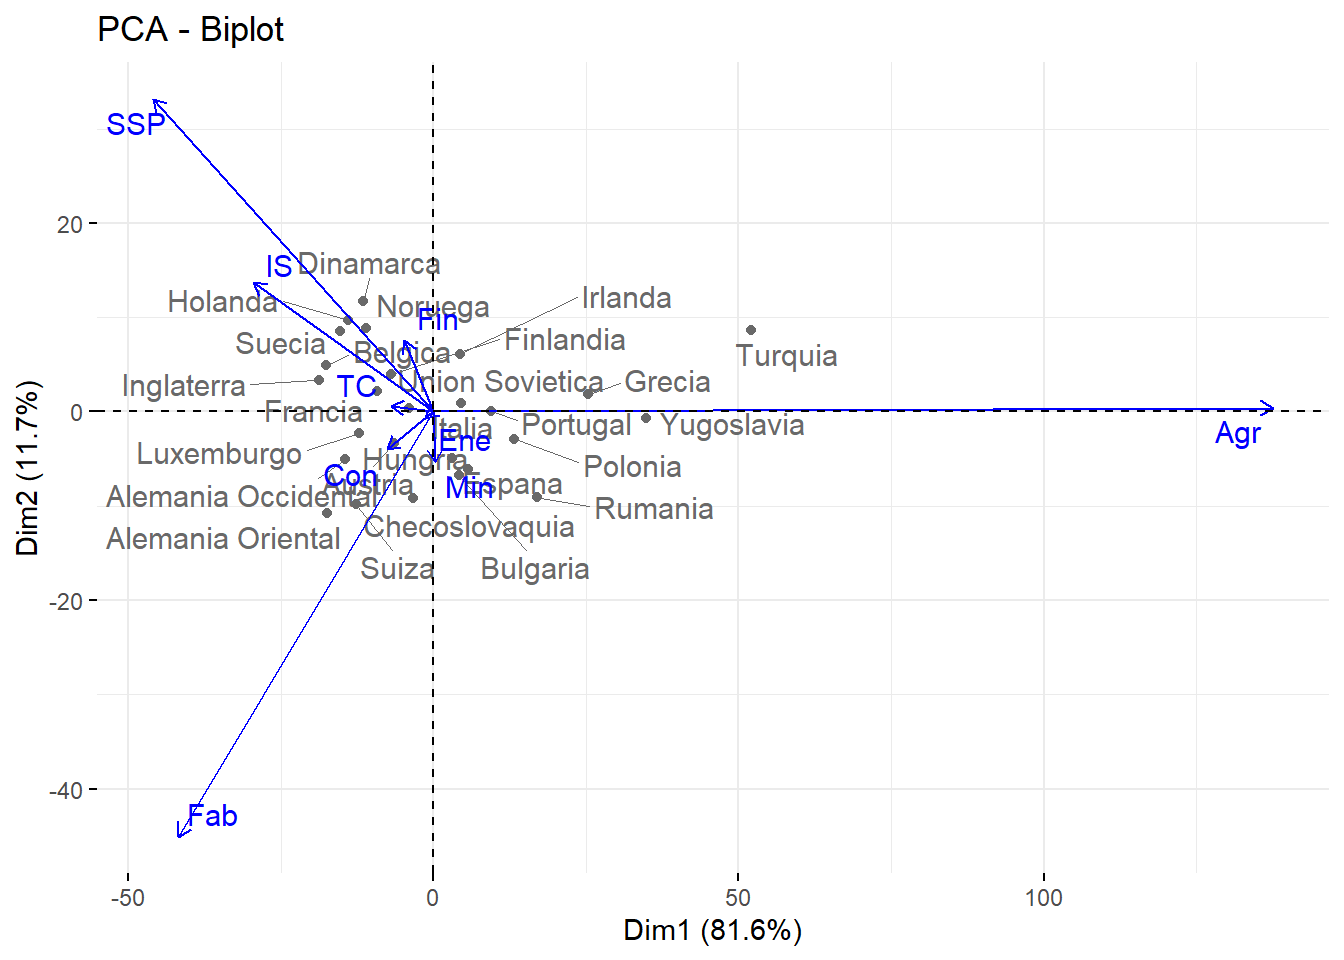
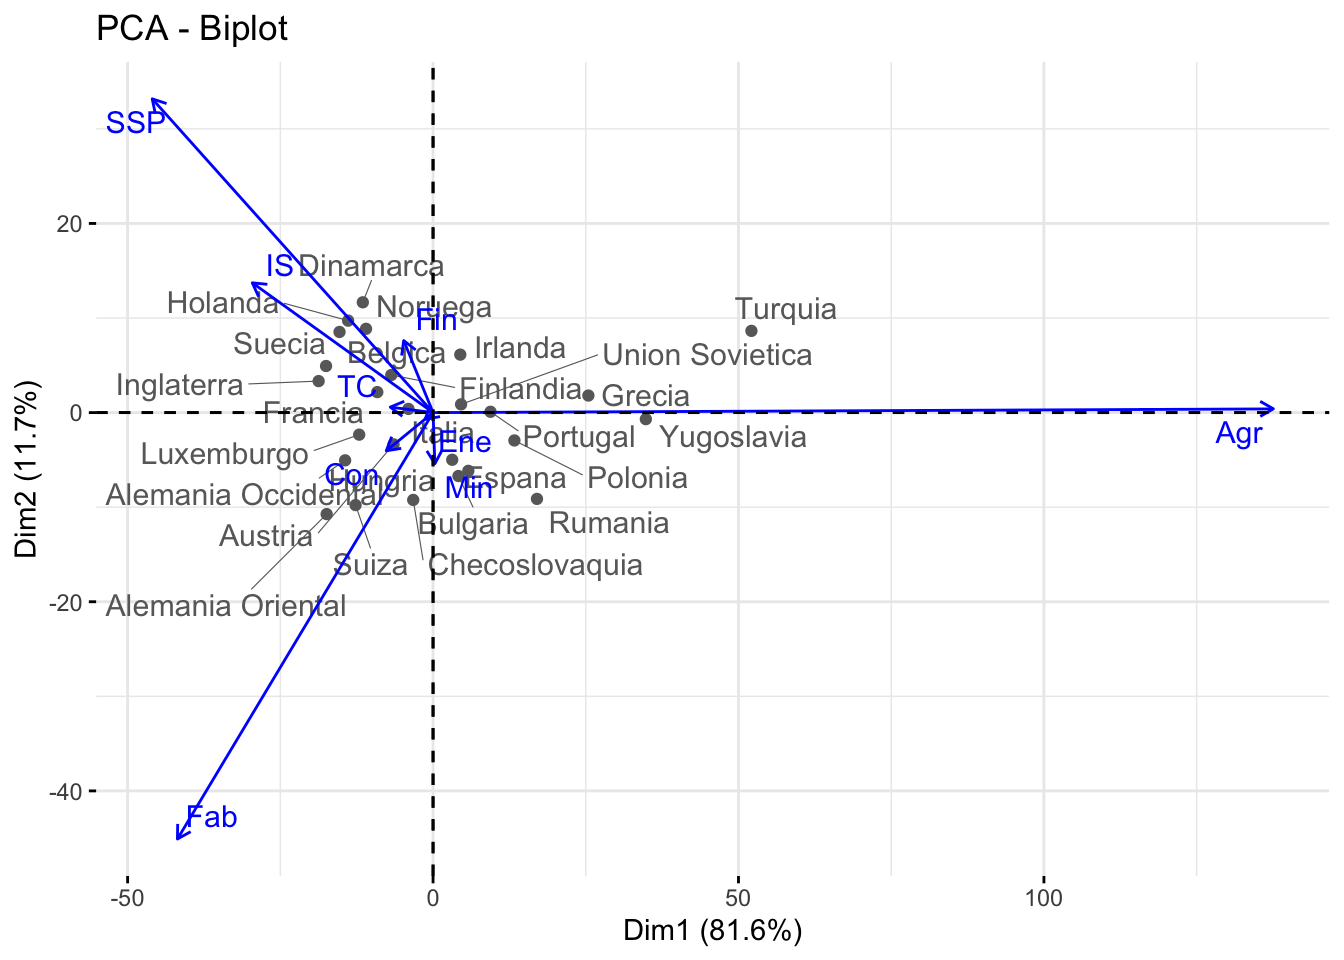
Añado el ACP sin outliers

diff --git a/Practica-PCA.html b/Practica-PCA.html
@@ -2,7 +2,7 @@
 <html xmlns="http://www.w3.org/1999/xhtml" lang="en" xml:lang="en"><head>
 
 <meta charset="utf-8">
-<meta name="generator" content="quarto-1.3.433">
+<meta name="generator" content="quarto-1.3.353">
 
 <meta name="viewport" content="width=device-width, initial-scale=1.0, user-scalable=yes">
 
@@ -94,9 +94,10 @@ pre > code.sourceCode > span > a:first-child::before { text-decoration: underlin
 
 </header>
 
+<p>Link al repositorio: <a href="https://github.com/carlamartineztorres/Practica-PCA.git">Repositorio Github</a></p>
 <section id="enunciado" class="level2">
 <h2 class="anchored" data-anchor-id="enunciado">Enunciado</h2>
-<p>Considera los datos <code>europa.dat</code> que están disponibles en Aula Digital. Los datos corresponden a los porcentajes de población empleados en diferentes actividades económicas en Europa para el año 1979. Las variables consideradas son: - Agricultura - Minas - Fábricas - Suministro Eléctrico - Construcción - Industrias de Servicio - Finanzas - Servicios Sociales y Personales - Transporte y Comunicaciones.</p>
+<p>Considera los datos <code>europa.dat</code> que están disponibles en Aula Digital. Los datos corresponden a los porcentajes de población empleados en diferentes actividades económicas en Europa para el año 1979. Las variables consideradas son: * Agricultura * Minas * Fábricas * Suministro Eléctrico * Construcción * Industrias de Servicio * Finanzas * Servicios Sociales y Personales * Transporte y Comunicaciones.</p>
 <p>Utiliza el método de componentes principales para reducir el número de variables, y tratar de determinar grupos de países con comportamientos semejantes en la distribución de su fuerza de trabajo. En este caso, usa la matriz de covarianza para el cálculo de las componentes principales, ya que todos los datos están medidos en la misma escala (porcentaje de la población) y por las caractersticas de los datos, no parece una buena idea considerarlos todos de igual manera.</p>
 </section>
 <section id="solución" class="level2">
@@ -117,7 +118,7 @@ $ SSP &lt;dbl&gt; 26.6, 32.2, 22.6, 22.3, 20.8, 20.1, 19.2, 28.5, 28.3, 16.8, 24
 $ TC  &lt;dbl&gt; 7.2, 7.1, 5.7, 6.1, 6.1, 5.7, 6.2, 6.8, 6.4, 7.0, 7.6, 6.7, 9.4, 5…</code></pre>
 </div>
 </div>
-<p>Ahora, como vamos a utilizar la matriz de varianzas/covarianzas para el análisis de componentes, vamos a visualizar esta matriz:</p>
+<p>Ahora, como vamos a utilizar la matriz de varianzas/covarianzas para el análisis de componentes, vamos a visualizar dicha matriz:</p>
 <div class="cell">
 <div class="cell-output cell-output-stdout">
 <pre><code>            Agr         Min        Fab         Ene          Con          IS
@@ -142,7 +143,7 @@ SSP  2.0632  46.6426462   5.3964923
 TC  -0.9604   5.3964923   1.9361846</code></pre>
 </div>
 </div>
-<p>Empezamos ahora con el PCA. Utilizamos la función <code>princomp()</code> con el parámetro <code>cor</code> igualado a FALSE. Como los datos están tomados en las mismas unidades, no es necesario reescalarlas. El resultado que obtenemos es el siguiente:</p>
+<p>Empezamos ahora con el PCA. Utilizamos la función <code>princomp()</code> con el parámetro <code>cor</code> igualado a FALSE. Como los datos están tomados en las mismas unidades, no es necesario reescalarlos. El resultado que obtenemos es el siguiente:</p>
 <div class="cell">
 <div class="cell-output cell-output-stdout">
 <pre><code>Call:
@@ -172,7 +173,7 @@ Dim.8 6.242948e-02      0.017454172                    99.99949
 Dim.9 1.838443e-03      0.000513996                   100.00000</code></pre>
 </div>
 </div>
-<p>Si nos fijamos en la última columna de la tabla anterior, la primera componente principal explica el 81.57% de los datos, mientras que si consideramos dos componentes, explicaríamos un 93.3% de los datos. Cabe mencionar que añadir una componente más no nos proporciona información relevante en cuanto a representación de las variables.</p>
+<p>Si nos fijamos en la última columna de la tabla anterior, la primera componente principal explica el 81.57% de los datos, mientras que si consideramos dos componentes, explicaríamos un 93.3% de los datos. Cabe mencionar que añadir una componente más no nos proporciona información relevante en cuanto a la representación de las variables.</p>
 <p>Esto lo visualizamos mejor en el siguiente gráfico:</p>
 <div class="cell">
 <div class="cell-output-display">
@@ -188,7 +189,7 @@ Dim.9 1.838443e-03      0.000513996                   100.00000</code></pre>
 </div>
 <p>Vamos a explicarlo detalladamente:</p>
 <ul>
-<li><p>La variable “Agricultura” esta aislada del resto, lo que nos lleva a concluir que no está correlacionada con ellas.</p></li>
+<li><p>La variable “Agricultura” esta aislada del resto, lo que nos lleva a concluir que no está correlacionada con el resto.</p></li>
 <li><p>El color de cada variable indica cuan bien representadas están; vemos que la variable que mejor representada está es “Agricultura”, seguido de “Fábrica” y “SSPP” (Servicios Sociales y Personales). El color del resto de las variables nos indica que no quedan bien representadas con estas dos componentes.</p></li>
 <li><p>La longitud de las flechas nos indica que no todas las varibales tienen influencia en las componentes princpales. En efecto, “Min”, “Con”, “TC”, “Ene” y “Fin” son variables con poca representación. Por el contrario, “Agricultura” tiene una fuerte influencia (es la flecha más larga).</p></li>
 </ul>
@@ -205,13 +206,7 @@ Dim.9 1.838443e-03      0.000513996                   100.00000</code></pre>
 </div>
 </div>
 <p>En él, podemos ver los países coloreados en relación a la calidad de representación en el ACP. Los países representados por azul claro tienen una alta representación, mientras que los países con un azul más oscuro no, como es el caso de la Unión Soviética.</p>
-<p>Vemos que por ejemplo Portugal y Yugoslavia quedan muy bien explicadas por la CP1; está, daba mucho peso a la variable “Agricultura”. Si accedemos a registros históricos, Yugoslavia era un país agrícola; la mayoría de sus habitantes poseían terrenos para el cultivo y vivían de ellos.</p>
-<ul>
-<li>portugal</li>
-<li>españa</li>
-<li>turquia</li>
-<li>checoslovaquia</li>
-</ul>
+<p>Vemos que por ejemplo Portugal y Yugoslavia quedan muy bien explicadas por la CP1 que recordamos, daba mucho peso a la variable “Agricultura”.</p>
 <p>Numéricamente, la calidad de representación de las dos CP es la siguiente:</p>
 <div class="cell">
 <div class="cell-output cell-output-stdout">
@@ -249,19 +244,112 @@ Union Sovietica       4.587043   0.87197041</code></pre>
 <p><img src="Practica-PCA_files/figure-html/unnamed-chunk-10-1.png" class="img-fluid" width="672"></p>
 </div>
 </div>
-<p>Como vemos, tenemos 8 países que son outliers. Estos son:</p>
-<p>Entonces, consideramos el nuevo tibble sin los outliers anteriores:</p>
+<p>Como vemos, hay países que se muestran como outliers en distintas variables, por lo tanto, en total tenemos 4 países que son outliers.</p>
+<p>Estos son:</p>
 <div class="cell">
-<div class="sourceCode cell-code" id="cb6"><pre class="sourceCode r code-with-copy"><code class="sourceCode r"><span id="cb6-1"><a href="#cb6-1" aria-hidden="true" tabindex="-1"></a><span class="co">#datos_sin_outliers=data[,]</span></span></code><button title="Copy to Clipboard" class="code-copy-button"><i class="bi"></i></button></pre></div>
+<div class="cell-output cell-output-stdout">
+<pre><code>        Agr Min  Fab Ene Con   IS Fin  SSP  TC
+Noruega   9 0.5 22.4 0.8 8.6 16.9 4.7 27.6 9.4</code></pre>
 </div>
-<p>Realizamos el ACP:</p>
-<p>fviz_pca_var(data.acp.turq, repel = TRUE, col.var = “contrib”, gradient.cols = c(“#00AFBB”, “#E7B800”, “#FC4E07”))</p>
-<p>fviz_pca_biplot(data.acp.turq, repel = TRUE, col.var = “#2E9FDF”, color para las variables col.ind = “#696969” color para las observaciones )</p>
+<div class="cell-output cell-output-stdout">
+<pre><code>        Agr Min  Fab Ene  Con  IS Fin  SSP  TC
+Espana 22.9 0.8 28.5 0.7 11.5 9.7 8.5 11.8 5.5</code></pre>
+</div>
+<div class="cell-output cell-output-stdout">
+<pre><code>         Agr Min Fab Ene Con  IS Fin  SSP  TC
+Turquia 66.8 0.7 7.9 0.1 2.8 5.2 1.1 11.9 3.2</code></pre>
+</div>
+<div class="cell-output cell-output-stdout">
+<pre><code>        Agr Min  Fab Ene Con   IS Fin SSP  TC
+Grecia 41.4 0.6 17.6 0.6 8.1 11.5 2.4  11 6.7</code></pre>
+</div>
+</div>
+<p>Una vez hemos eliminado los outliers, repetimos el proceso anterior de realizar el ACP:</p>
 <div class="cell">
-<div class="sourceCode cell-code" id="cb7"><pre class="sourceCode r code-with-copy"><code class="sourceCode r"><span id="cb7-1"><a href="#cb7-1" aria-hidden="true" tabindex="-1"></a><span class="co"># Resultados por Variables</span></span>
-<span id="cb7-2"><a href="#cb7-2" aria-hidden="true" tabindex="-1"></a> <span class="co">#res.var=get_pca_var(data.acp)</span></span>
-<span id="cb7-3"><a href="#cb7-3" aria-hidden="true" tabindex="-1"></a> <span class="co">#res.var$contrib        Contribuciones a las CP</span></span></code><button title="Copy to Clipboard" class="code-copy-button"><i class="bi"></i></button></pre></div>
+<div class="cell-output cell-output-stdout">
+<pre><code>Call:
+princomp(x = data_sin_outliers, cor = FALSE)
+
+Standard deviations:
+     Comp.1      Comp.2      Comp.3      Comp.4      Comp.5      Comp.6 
+12.21009250  6.23602348  3.78795067  1.19767859  0.96908987  0.82012259 
+     Comp.7      Comp.8      Comp.9 
+ 0.63414764  0.24566504  0.03758962 
+
+ 9  variables and  22 observations.</code></pre>
 </div>
+</div>
+<p>Veamos los valores propios de cada una de las componentes:</p>
+<div class="cell">
+<div class="sourceCode cell-code" id="cb11"><pre class="sourceCode r code-with-copy"><code class="sourceCode r"><span id="cb11-1"><a href="#cb11-1" aria-hidden="true" tabindex="-1"></a><span class="fu">get_eigenvalue</span>(data.acp.outliers)</span></code><button title="Copy to Clipboard" class="code-copy-button"><i class="bi"></i></button></pre></div>
+<div class="cell-output cell-output-stdout">
+<pre><code>        eigenvalue variance.percent cumulative.variance.percent
+Dim.1 149.08635891     72.430738464                    72.43074
+Dim.2  38.88798889     18.892981045                    91.32372
+Dim.3  14.34857030      6.970976756                    98.29470
+Dim.4   1.43443401      0.696892157                    98.99159
+Dim.5   0.93913518      0.456260753                    99.44785
+Dim.6   0.67260106      0.326770282                    99.77462
+Dim.7   0.40214323      0.195373551                    99.96999
+Dim.8   0.06035131      0.029320523                    99.99931
+Dim.9   0.00141298      0.000686469                   100.00000</code></pre>
+</div>
+</div>
+<p>Observando la última columna, vemos que con la primera componente explicamos el 72.43% de la información, y al considerar las dos primeras componentes, llegamos a un 91.32% de explicación de los datos. De nuevo, veámoslo en el siguiente gráfico de codo:</p>
+<div class="cell">
+<div class="cell-output-display">
+<p><img src="Practica-PCA_files/figure-html/unnamed-chunk-16-1.png" class="img-fluid" width="672"></p>
+</div>
+</div>
+<p>De nuevo, las pendientes de las rectas indican que con dos componentes principales és suficiente para dar una buena representación de los datos. Veámos con el siguiente gráfico cómo quedan representadas las variables en el círculo de correlación variable:</p>
+<div class="cell">
+<div class="cell-output-display">
+<p><img src="Practica-PCA_files/figure-html/unnamed-chunk-17-1.png" class="img-fluid" width="672"></p>
+</div>
+</div>
+<p>Lo primero que nos llama la atención és que la variable agricultura queda aislada del resto, esto nos indica que no presenta correlación con el resto de variables; además, los colores de las flechas nos indican cuán bien quedan representadas las variables, observamos que, de nuevo, la variable Agricultura és la que mejor queda representada, seguida de ‘Fábrica’ y ‘SSP’. Por último, la longitud de las flechas nos indica que no todas las varibales tienen la misma influencia en las componentes princpales. Así pues, “Min”, “Con”, “TC”, “Ene”, “IS” y “Fin” son variables con poca influencia Por el contrario, “Agricultura”, “Fábrica” y “SSP” tienen un mayor peso en este aspecto.</p>
+<p>Ahora, veamos si podemos obtener una clasificación de los países por grupos a través de las dos componentes principales.</p>
+<div class="cell">
+<div class="cell-output-display">
+<p><img src="Practica-PCA_files/figure-html/unnamed-chunk-18-1.png" class="img-fluid" width="672"></p>
+</div>
+</div>
+<p>Como vemos, no hay una separación clara de los países en función de las componentes principales. Para poder analizar más en concreto este punto, consideraremos el siguiente gráfico:</p>
+<div class="cell">
+<div class="cell-output-display">
+<p><img src="Practica-PCA_files/figure-html/unnamed-chunk-19-1.png" class="img-fluid" width="672"></p>
+</div>
+</div>
+<p>En él, podemos ver los países coloreados en relación a la calidad de representación en el ACP. Los países representados por azul claro tienen una alta representación, como Polonia o Inlaterra, mientras que los países con un azul más oscuro no, como es el caso de Italia o Áustria. Observamos que, en este caso, la Unión Soviética queda mucho mejor representada por este ACP que por el que hemos hecho anteriormente.</p>
+<p>Finalmente, veamos numéricamente como és la calidad de representación de las dos CP es la siguiente:</p>
+<div class="cell">
+<div class="cell-output cell-output-stdout">
+<pre><code>                          Dim.1       Dim.2
+Belgica             -14.5307253   3.5270454
+Dinamarca            -9.3879937  10.8234109
+Francia              -5.9151280   2.0576023
+Alemania Occidental -10.1444708  -6.1144940
+Irlanda               7.1834364   7.7163944
+Italia               -0.2739362   0.9609661
+Luxemburgo           -8.1551930  -2.7291251
+Holanda             -11.5353759   8.9125191
+Inglaterra          -15.5382340   1.5215938
+Austria              -2.4872034  -2.9076348
+Finlandia            -3.8097968   3.9653437
+Grecia               28.4916895   6.5851939
+Portugal             12.8758178   2.4786630
+Suecia              -12.7707199   7.0290110
+Suiza                -7.8728425 -10.1197213
+Bulgaria              8.8087345  -5.3298334
+Checoslovaquia        1.8449288  -8.7539186
+Alemania Oriental   -11.9582636 -12.4012080
+Hungria               7.6064629  -3.5943453
+Polonia              17.3703530  -0.1531072
+Rumania              21.7001231  -5.6967895
+Union Sovietica       8.4983373   2.2224336</code></pre>
+</div>
+</div>
+<p>##Conclusión En conclusión, el hecho de considerar o no los valores outliers no nos ha afectado a la hora de seleccionar las componentes principales, ya que en ambos casos hemos seleccionado dos. Sin embargo, no hemos encontrado diferencias significativas entre los dos ACP; en ambos la variable “Agricultura” queda muy bien representada por las CP y refleja una fuerte influencia sobre las componentes, además queda aislada del resto, lo que nos lleva a concluir que no presenta correlación con el resto de variables. Las variables “Fábrica” y “SSP” quedan bien representadas por el ACP en ambos casos, ésto no ocurre con el resto de variables. Por último, al visualizar los paises sobre las componentes principales, no llegamos a obtener una clasificación clara de estos en ninguno de los dos casos.</p>
 </section>
 
 </main>
